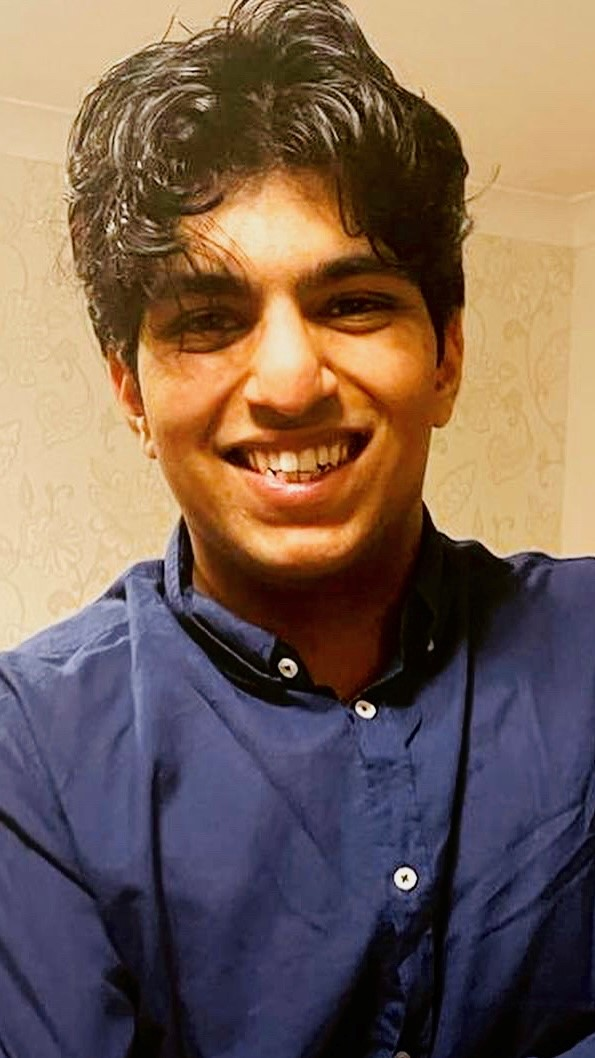
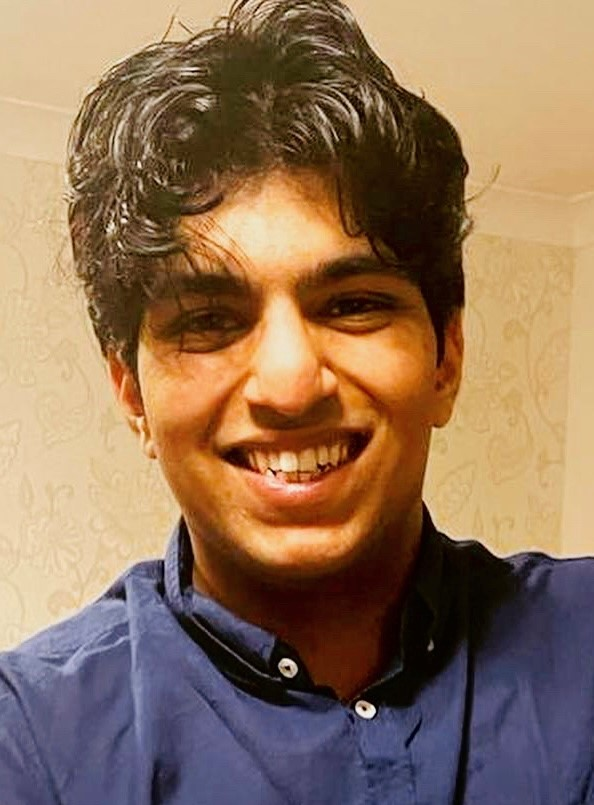
added the About page

diff --git a/about.html b/about.html
@@ -27,21 +27,73 @@
               </ul>
             </div>
         <div class="title">
-            <p>Fayz Siddiqui</p>
+            <p>About Me</p>
         </div>
     </div>
     <br>
     <main>
         <div class="textbox" style="width:87vw; height:auto;">
-            <div class="container">
             <p>
-                Hi, and welcome to my website. I hope you enjoy your time here!
+                Hi there! My name <b>Fayz Siddiqui</b>. I am a 3rd year <b>Computer Science</b> student, studying at the <i>University of Edinburgh</i>. 
+        <br><br>
+                I grew up in Glasgow and have always had a variety of passions and interests; my main three being computers, music and sport.
+            </p>
+        </div> 
+        <div class="textbox" style="width:87vw; height:auto;">
+            <p> 
+                I started learning to code when I was 13 in high school, learning scratch and basic python functions. 
+                I really discovered my love for computer science through my school assignments. 
+                I loved being given programming problems to solve, and then going on to help anyone who needed it.
+                I created my first full project from scratch when I was 18, creating a very basic monopoly game using Pygame. 
+                Since then, I have used HackerRank to find new mini-challenges. 
+                I also took part in the 2021 DataFest, where we attempted to create visualisations and draw patterns from medical data.
+                Currently, I am trying to develop an AI that can classify songs into music categories, based on the frequency samples from each song. 
+                If you would like to see more of my projects, you can look at my <a href="https://github.com/Fayz-S" style="color:blueviolet"><b>Github</b></a>.
             </p>
         </div>  
+        <div class="textbox" style="width:87vw; height:auto;">
+            <p>
+                I have been passionate about music from a very young age. 
+                Whenever I was in the car, my parents would always play Smooth Radio, which featured mainly 60’s and 70’s Motown and pop. 
+                From there I developed a taste for rap, listening to 50 Cent, Akon and Eminem constantly. 
+                I used to carry my small iPod Nano everywhere, and it didn’t take long before I had fully immersed myself in a whole spectra of music: 
+                from classical Beethoven and Bach, up to the vintage blues and rags, and right up to modern hip-hop, rap and pop.
+                Ask me about any of it: I’ll keep you busy for hours.
+                <br><br>
+                I also learned to play piano, achieving a grade 8 distinction at high school. 
+                My proudest achievements however have been my musical performances. 
+                My school gave me the opportunity to perform in Rent, Fame and Chicago, and I thrived on stage. 
+                I also joined all the available choirs and was a key tenor in all of our performances.
+            </p>
+        </div>  
+        <div class="textbox" style="width:87vw; height:auto;">
+            <p>
+                I have also always played sport.
+                My dad got me into cricket at a young age, so its likely I can catch anything you throw at me.
+                By high school I was swimming and rowing competitively, as well as playing rugby, hockey, and cricket.
+                I won a few medals along the way, but at university I have chosen to take on Muay Thai, with swimming at the side.
+                I can also lift, bro.
+            </p>
         </div>
+        <div class="textbox" style="width:87vw; height:auto;">
+            <p>
+                I've always seen myself as a leader. 
+                I was a leading officer in my school's CCF (Combined Cadet Force), and I captained my cricket team when I played club cricket.
+                Leadership and management have always come naturally to me, and i hope to end up in a management position later in my career.
+            </p>
         </div>
-    </main>
+        <div class="textbox" style="width:87vw; height:auto;">
+            <p>
+               That's all there is here: if you want to find out more, feel free to pop me an email and I'll reply promptly :)
+            </p>
+        </div>
+    </main>     
     <footer>
+            <p>Fayz Siddiqui <br>
+                <a href="mailto:fayz.siddiqui@outlook.com">Email</a><br>
+                <a href="https://www.linkedin.com/in/fayz-siddiqui-0a616118b/">LinkedIn</a><br>
+                <a href="https://github.com/Fayz-S">Github</a>
+            </p>
     </footer>
 </body>
 

diff --git a/css/main.css b/css/main.css
@@ -4,6 +4,14 @@
   src: url(fonts/JetBrainsMono-2.242/fonts/webfonts/JetBrainsMono-Regular.woff2)
 }
 
+@keyframes fadeInAnimation {
+  0% {
+      opacity: 0;
+  }
+  100% {
+      opacity: 1;
+   }
+}
 body {
   height:100%;
   background-color: #6515b0;
@@ -11,10 +19,11 @@ body {
   margin:0;
   display:flex;
   flex-direction: column;
+ 
 }
 a {
   text-decoration: none;
-  color:white;
+  color: rgb(250, 211, 55);
 }
 a:visited {
   color:inherit;
@@ -76,13 +85,20 @@ a:visited {
   align-items: center;
   font-size: 5vmin;
   transition:0.5s;
+  animation: fadeInAnimation ease 3s;
+  animation-iteration-count: 1;
+  animation-fill-mode: forwards;
 }
 
 
 main {
   flex: 1;
+  flex-direction:column; 
   box-sizing: border-box;
   margin: 4vh 6vw 10vh;
+  animation: fadeInAnimation ease 3s;
+  animation-iteration-count: 1;
+  animation-fill-mode: forwards;
 
 
 }
@@ -92,7 +108,9 @@ img {
   align-items: center; 
   border: 4px solid black;
   margin: auto;
-  max-width: 50vw;
+  height: auto;
+  max-width: 250px;
+
 
 }
 
@@ -101,7 +119,7 @@ img {
 .half {
   display: inline-block;
   width:43vw;
-  height:40vh;
+  height:27.5vw;
   margin: 0;
 }
 
@@ -113,7 +131,9 @@ img {
   display: flex;
   margin: auto;
   align-items: center; 
+  text-align: justify;
   border: 4px solid black;
+  margin-bottom: 4vh;
   
 }
 .textbox p {
@@ -124,16 +144,17 @@ img {
 
 footer {
   width: 100%;
-  height: auto;
-  margin-top: auto;
-  /* position:fixed; */
+  margin: auto auto 0;
   right: 0;
   left: 0;
   bottom: 0;
-  height: 15vh;
+  min-height: 20vh;
   background-color: #320e54;
 }
 footer p {
-  margin-top:auto;
+  margin:auto;
+  font-size: 1.75vh;
+  text-align: center;
+  padding: 3vh 4vw 0vh;
   color: rgb(250, 211, 55);
 }

diff --git a/index.html b/index.html
@@ -11,7 +11,7 @@
     <meta property="og:description" content="Fayz Siddiqui, student at the Universtiy of Edinburgh">
     <meta name="keywords" content="fayz, siddiqui, student, computer, computing">
     <link rel="stylesheet" type="text/css" href="css/main.css"> 
-    <title>Fayz Siddiqui</title>
+    <title>About</title>
 </head>
 
 
@@ -45,6 +45,22 @@
         </div>
     </main>
     <footer>
+        <!-- <div class="half" style="height:20vh;">
+            <p>Fayz Siddiqui <br>
+                <a href="mailto:fayz.siddiqui@outlook.com">fayz.siddiqui@outlook.com</a>
+
+            </p>
+        </div>
+        <div class="half" style="float:right;height:20vh">
+            <p>Fayz Siddiqui <br>
+                <a href="mailto:fayz.siddiqui@outlook.com">fayz.siddiqui@outlook.com</a>
+
+            </p>
+    </div> -->
+    <p>Fayz Siddiqui <br>
+        <a href="mailto:fayz.siddiqui@outlook.com">Email</a><br>
+        <a href="https://www.linkedin.com/in/fayz-siddiqui-0a616118b/">LinkedIn</a>
+    </p>
     </footer>
 </body>
 
